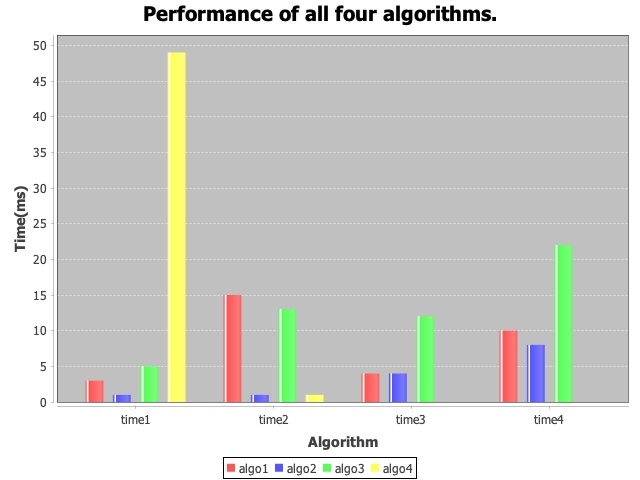
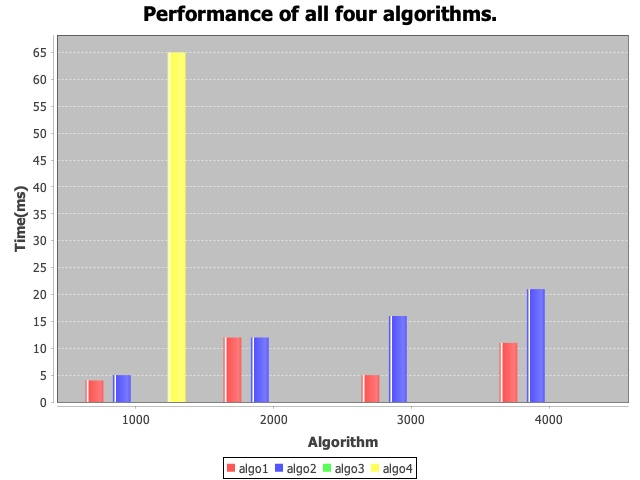
finish

diff --git a/src/Lab01/Main.java b/src/Lab01/Main.java
@@ -26,13 +26,6 @@ public class Main {
 		return arr;
 	}
 
-	// Use a nested loop to solve the problem without creating an extra array.
-//	public static int algorithm2(int[] arr) {
-//		int res = 0;
-//
-//		return res;
-//	}
-
 	// Create a new array consisting of even numbers only. Then use nested loops to
 	// solve the problem using
 	// the newly created array of even numbers only.
@@ -67,6 +60,9 @@ public class Main {
 		return res;
 	}
 
+	/*
+	 * Use a nested loop to solve the problem without creating an extra array.
+	 */
 	private static int algorithm2(int[] input) {
 		int maxDis = -1;
 		for (int i = 0; i < input.length - 1; i++) {
@@ -83,6 +79,9 @@ public class Main {
 		return maxDis;
 	}
 
+	/*
+	 * Use one loop. Find max and min of even integers. Compute max – min.
+	 */
 	private static int algorithm3(int[] input) {
 		int maxDis = -1;
 		int min = -1;
@@ -102,6 +101,9 @@ public class Main {
 		return maxDis;
 	}
 
+	/*
+	 * Use Streams to find the max and min. Compute max – min.
+	 */
 	private static int algorithm4(int[] input) {
 		IntSummaryStatistics ints = Arrays.stream(input).filter(x -> x % 2 == 0).summaryStatistics();
 		if (ints.getCount() <= 0)
@@ -112,7 +114,7 @@ public class Main {
 
 	private static void createGraph(List<Long> input) throws IOException {
 		final String[] algo = { "algo1", "algo2", "algo3", "algo4" };
-		final String[] times = { "time1", "time2", "time3", "time4" };
+		final String[] times = { "1000", "2000", "3000", "4000" };
 
 		final DefaultCategoryDataset dataset = new DefaultCategoryDataset();
 		for (int i = 0; i < input.size(); i++) {
@@ -130,14 +132,6 @@ public class Main {
 	}
 
 	public static void main(String[] args) throws IOException {
-//		int[] arr = generateInt(1,10000,1000);
-
-		// System.out.print("Given random array " + Arrays.toString(arr));
-//		long startTime = System.currentTimeMillis();
-//		int dis = algorithm1(arr);
-//		long elapsedTime = System.currentTimeMillis() - startTime;
-//		System.out.println("\nThe largest distance between any two even integers is: " + dis);
-//		System.out.println("Elapsed time (miliseconds): " + elapsedTime);
 		int i = 0;
 		List<Long> r = new ArrayList<>();
 		while (i <= 3) {
